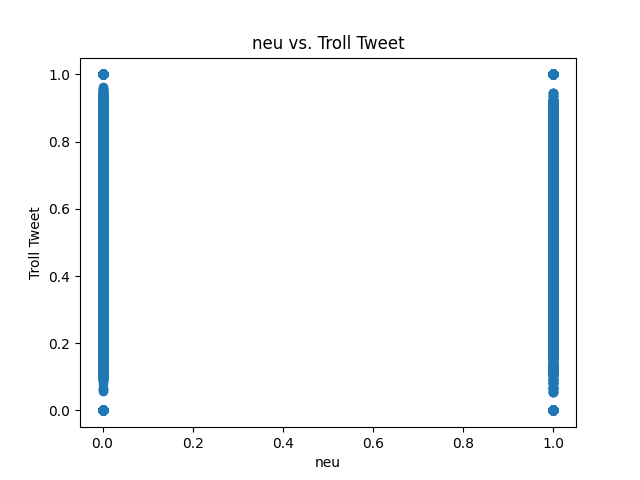
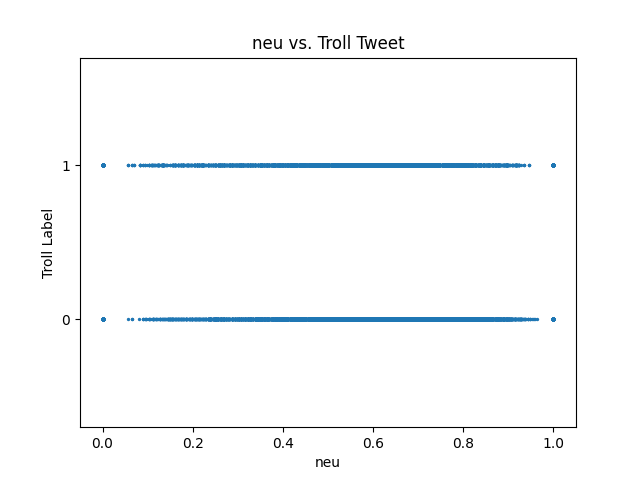
Fixed bar graph

diff --git a/bar.py b/bar.py
@@ -27,24 +27,25 @@ xlimit = {
 }
 X = data[features]
 
-# feature vs count 
 for feat in X:
+    # feature vs count
     plt.hist(data[feat], bins = bins[feat], rwidth=0.9)
     plt.title("{} vs. # of tweets".format(feat))
     plt.xlabel("{}".format(feat))
     plt.ylabel("# of Tweets")
     plt.xlim(0, xlimit[feat])
     plt.savefig('data_count/count/{}_count.png'.format(feat), format='png')
-    plt.show()
     plt.clf()
 
-    plt.scatter(data["annotation"], data[feat] )
+    # feature vs annotation
+    plt.scatter(data[feat], data["annotation"], s=2)
     plt.title("{} vs. Troll Tweet".format(feat))
     plt.xlabel("{}".format(feat))
-    plt.ylabel("Troll Tweet")
+    plt.ylabel("Troll Label")
+    axes = plt.gca()
+    axes.set_ylim([-0.7, 1.7])
+    plt.yticks([0, 1])
     plt.savefig('data_count/output/{}_vs_annotation.png'.format(feat), format='png')
-    plt.xticks(np.arange(0, 2, 1.0))
-    plt.show()
     plt.clf()
 
 
